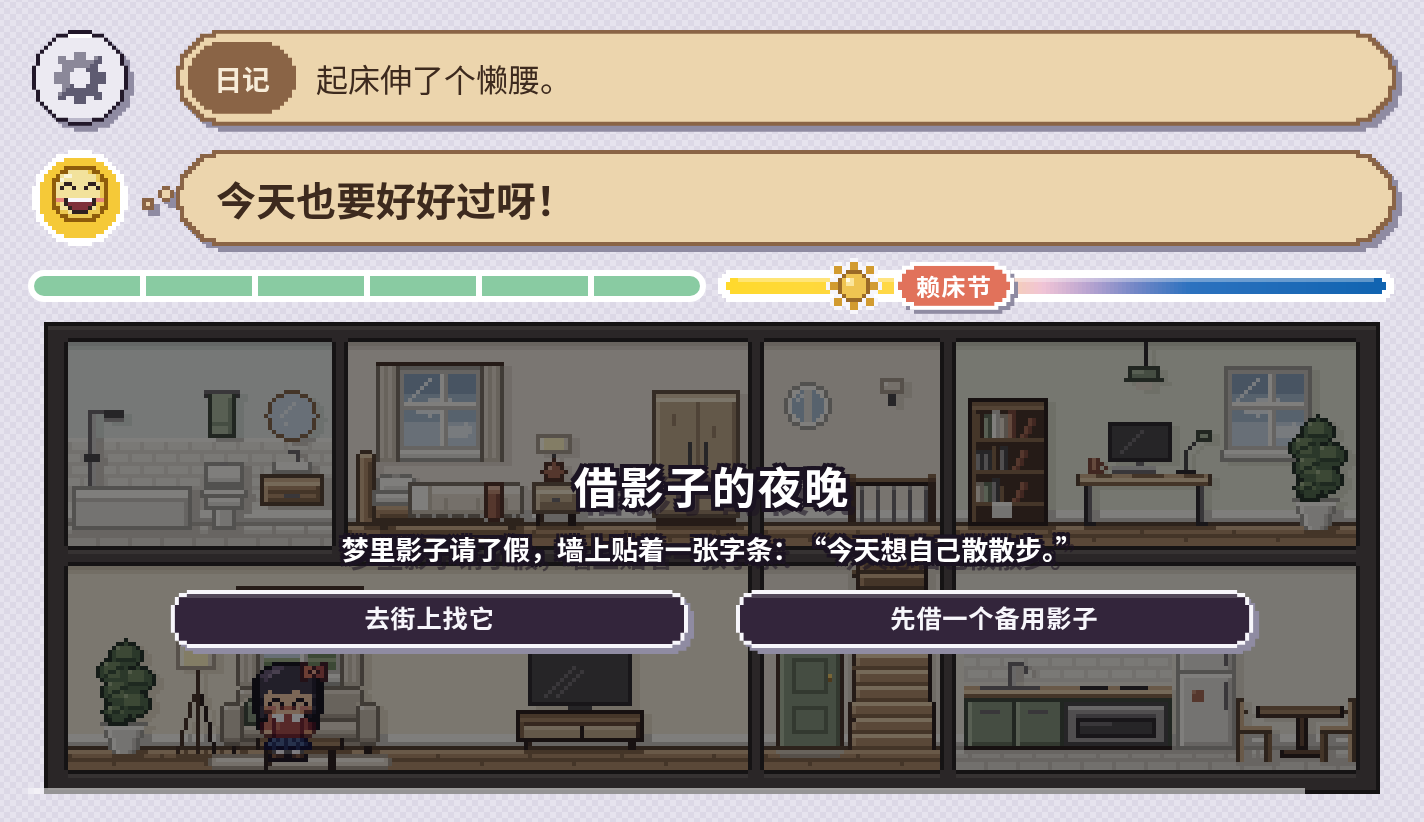
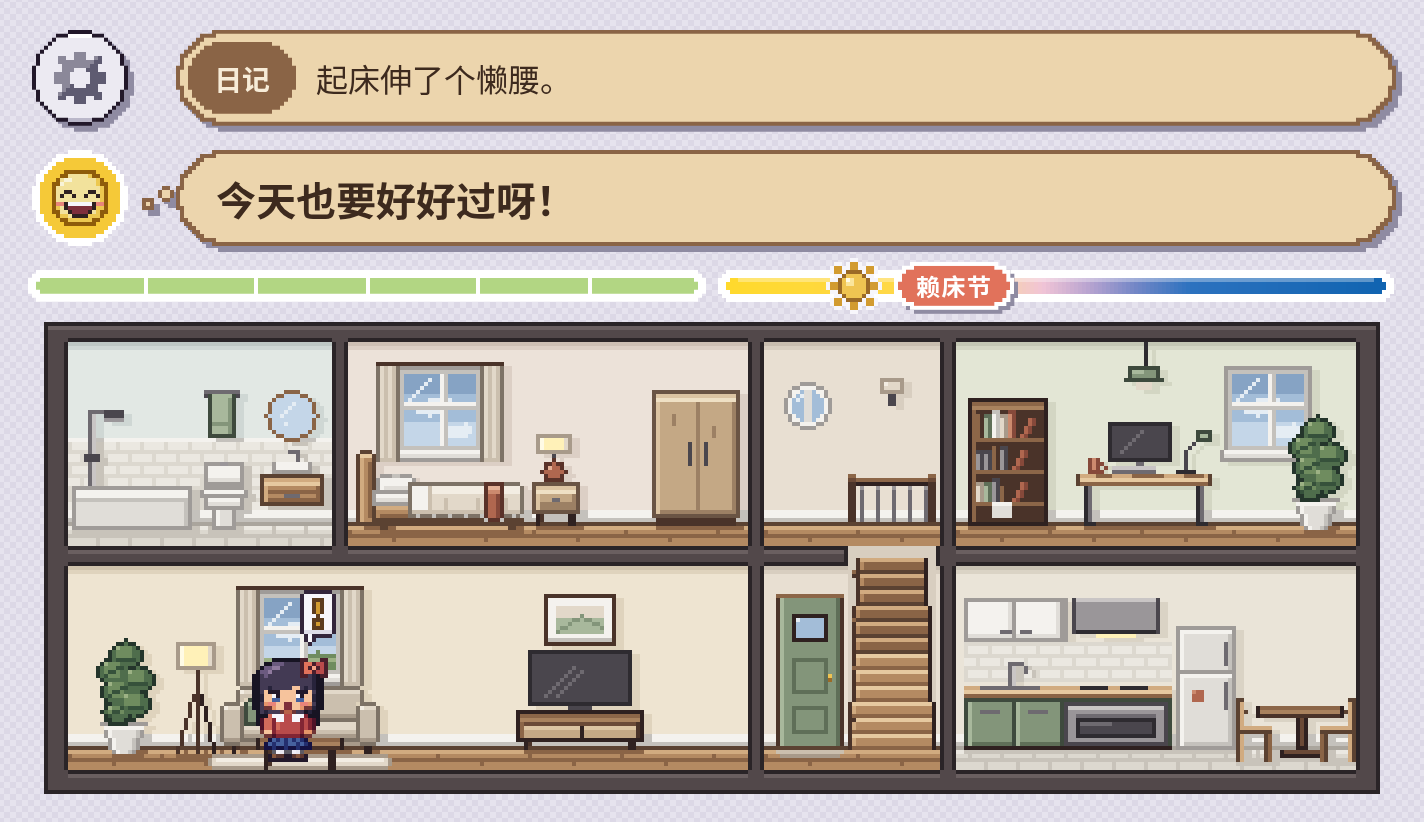
Unify social HUD pixel styling and stagger needs animations

diff --git a/prototype/demo/social_hud.css b/prototype/demo/social_hud.css
@@ -2,65 +2,81 @@
 .widget { display:block; padding-left:0; }
 .desk { padding-left:max(76px,env(safe-area-inset-left,0px)); }
 html.desktop .desk { padding-left:76px; }
-.widget { --hud-spring:cubic-bezier(.2,1.3,.32,1); --hud-settle:cubic-bezier(.2,.8,.25,1); --need-ok:#89cba2; --need-warn:#ffd180; --need-low:#ef767d; }
+.widget { --hud-spring:cubic-bezier(.2,1.3,.32,1); --hud-settle:cubic-bezier(.2,.8,.25,1); }
+/* Outlines and inner bevels match existing diary, settings and radial menus. */
+:is(.needs-panel,.contacts-panel,.contact-card,.network-trigger,.contact-actions button,.incoming-call,.incoming-call button) { isolation:isolate; background:none; border:0; border-radius:0; box-shadow:none; filter:drop-shadow(2px 2px 0 var(--shadow)); }
+:is(.needs-panel,.contacts-panel,.contact-card,.network-trigger,.contact-actions button,.incoming-call,.incoming-call button)::before,
+:is(.needs-panel,.contacts-panel,.contact-card,.network-trigger,.contact-actions button,.incoming-call,.incoming-call button)::after { content:""; position:absolute; pointer-events:none; }
+:is(.needs-panel,.contacts-panel,.contact-card,.network-trigger,.contact-actions button,.incoming-call,.incoming-call button)::before { inset:0; z-index:-2; background:var(--hud-frame,var(--edge)); clip-path:var(--hud-outline,var(--hud-panel-clip)); }
+:is(.needs-panel,.contacts-panel,.contact-card,.network-trigger,.contact-actions button,.incoming-call,.incoming-call button)::after { inset:2px; z-index:-1; background:var(--hud-surface,var(--panel)); clip-path:var(--hud-inner,var(--hud-panel-in)); box-shadow:inset 0 2px 0 var(--bevel-hi),inset 0 -2px 0 var(--bevel-lo); }
 .status-row { display:grid; grid-template-columns:minmax(0,1fr) minmax(0,1fr); gap:6px; align-items:center; position:relative; margin-bottom:var(--sky-gap); }
 .status-row .skybar { width:100%; margin:0; }
 .needs { position:relative; width:100%; height:var(--sky-h); z-index:24; outline:none; cursor:pointer; }
-.needs-summary { position:absolute; top:25%; height:50%; inset-inline:0; display:flex; gap:3px; padding:3px; border-radius:999px; background:#fff; transition:opacity .18s; }
+.needs-summary { position:absolute; top:25%; height:50%; inset-inline:0; background:#fff; clip-path:var(--hud-track-clip); transition:opacity .18s; }
+.needs-segments { position:absolute; inset:var(--hud-track-edge); display:flex; gap:var(--sky-b); clip-path:var(--hud-track-in); }
 .needs-summary i { flex:1; min-width:0; background:var(--need-ok); }
-.needs-summary i:first-child { border-radius:999px 0 0 999px; }
-.needs-summary i:last-child { border-radius:0 999px 999px 0; }
-.needs-panel { position:absolute; bottom:18%; left:0; width:100%; height:150px; display:grid; grid-template-columns:repeat(6,minmax(0,1fr)); gap:8px; padding:16px 12px 10px; border-radius:24px; background:#fff; color:#343442; box-shadow:0 7px 22px #19263720; transform-origin:8% 100%; transform:translateY(9px) scale(.9); opacity:0; visibility:hidden; pointer-events:none; transition:transform .4s var(--hud-spring),opacity .2s,visibility 0s .4s; }
-.needs.open .needs-panel { transform:translateY(0) scale(1); opacity:1; visibility:visible; pointer-events:auto; transition-delay:0s; }
+
+
+.needs-panel { position:absolute; bottom:18%; left:0; width:100%; height:150px; display:grid; grid-template-columns:repeat(6,minmax(0,1fr)); gap:8px; padding:16px 12px 10px; color:var(--ink); transform-origin:8% 100%; transform:translateY(9px) scale(.9); opacity:0; visibility:hidden; pointer-events:none; transition:transform .34s var(--hud-spring) .14s,opacity .18s .28s,visibility 0s .5s; }
+.needs.open .needs-panel { transform:translateY(0) scale(1); opacity:1; visibility:visible; pointer-events:auto; transition-duration:.46s,.2s,0s; transition-delay:0s; }
 .needs.open .needs-summary { opacity:0; }
-.needs:focus-visible { outline:2px dashed var(--focus); outline-offset:3px; border-radius:16px; }
+.needs:focus-visible { outline:2px dashed var(--focus); outline-offset:3px; }
 .need { display:flex; flex-direction:column; align-items:center; justify-content:flex-end; min-width:0; position:relative; height:100%; width:auto; gap:4px; }
-.need-well { position:relative; flex:1; width:min(72%,24px); min-height:0; }
-.need .fill { position:absolute; inset:0; border-radius:9px; background:var(--c); transform:scaleY(var(--v)); transform-origin:50% 100%; transition:transform .5s var(--hud-settle),background-color .25s; }
-.need img,.needs.open .need img { position:static; width:22px; height:22px; padding:3px; border-radius:50%; background:#f0f0f1; image-rendering:pixelated; transform:none; opacity:1; animation:none; }
+.need-well { position:relative; flex:1; width:min(72%,24px); min-height:0; transform:translateY(6px) scaleY(.08); transform-origin:50% 100%; opacity:0; transition:transform .28s var(--hud-settle),opacity .16s; transition-delay:calc((5 - var(--i))*28ms); }
+.needs.open .need-well { transform:none; opacity:1; transition:transform .62s var(--hud-spring),opacity .18s; transition-delay:calc(55ms + var(--i)*55ms); }
+.need .fill { position:absolute; inset:auto 0 0; height:max(8px,calc(var(--v)*100%)); background:var(--c); clip-path:var(--hud-meter-clip); box-shadow:inset 2px 2px 0 #ffffff55,inset -2px -2px 0 #22182a22; transition:background-color .25s; }
+@supports (height:round(down,50%,2px)) { .need .fill { height:max(8px,round(down,calc(var(--v)*100%),2px)); } }
+.need img,.needs.open .need img { position:static; width:22px; height:22px; padding:3px; background:var(--panel-2); clip-path:var(--hud-small-clip); image-rendering:pixelated; animation:none; }
+.need img,.need-label { opacity:0; transform:translateY(5px) scale(.9); transition:transform .24s var(--hud-settle),opacity .14s; transition-delay:calc((5 - var(--i))*22ms); }
+.needs.open .need img,.needs.open .need-label { opacity:1; transform:none; transition:transform .42s var(--hud-spring),opacity .18s; transition-delay:calc(125ms + var(--i)*55ms); }
+.needs.retargeting .need-well,.needs.retargeting .need img,.needs.retargeting .need-label { transition-delay:0s; }
+.needs.retargeting .needs-panel { transition-delay:0s,0s,.5s; }
+.needs.open.retargeting .needs-panel { transition-delay:0s; }
 .need-label { font-size:10px; line-height:1.1; font-weight:500; white-space:nowrap; }
-.network-trigger { position:absolute; left:0; top:2px; width:48px; height:48px; margin:0; padding:10px; color:#4d6068; background:#92c982; border:3px solid #fff; border-radius:50%; box-shadow:0 2px 5px #273d2820; opacity:0; visibility:hidden; transform:translateX(0) scale(.9); transition:transform .46s var(--hud-spring),opacity .18s,visibility 0s .46s; z-index:22; }
-.network-trigger svg { display:block; width:100%; height:100%; fill:currentColor; }
-.network-trigger:hover { background:#a6d698; }
+.network-trigger { --hud-outline:var(--hud-circle-clip); --hud-inner:var(--hud-circle-in); --hud-surface:var(--need-ok); position:absolute; left:0; top:2px; width:48px; height:48px; margin:0; padding:11px; opacity:0; visibility:hidden; transform:translateX(0) scale(.9); transition:transform .46s var(--hud-spring),opacity .18s,visibility 0s .46s; z-index:22; }
+.network-trigger img { display:block; width:26px; height:26px; image-rendering:pixelated; }
+.network-trigger:hover { --hud-surface:var(--accent-soft); }
 .moodrow.network-ready .network-trigger,.moodrow.contacts-open .network-trigger,.network-trigger:focus-visible { transform:translateX(-62px) scale(1); opacity:1; visibility:visible; transition-delay:0s; }
 /* This bridge joins the two circles without stealing the settings/diary hit areas. */
 .moodrow.network-ready::before,.moodrow.contacts-open::before { content:""; position:absolute; left:-66px; top:0; width:70px; height:52px; z-index:21; }
 .mood-face { z-index:22; }
-.contacts-panel { position:absolute; z-index:25; inset:-60px 0 0; border-radius:24px; padding:12px; background:#fff; box-shadow:0 6px 20px #1926371a; opacity:0; visibility:hidden; pointer-events:none; transform:translateX(-10px) scale(.97); transform-origin:0 75%; transition:transform .42s var(--hud-spring),opacity .2s,visibility 0s .42s; }
-.contacts-panel::before { content:""; position:absolute; left:-10px; bottom:24px; width:20px; height:20px; background:#fff; transform:rotate(45deg); border-radius:4px; }
+.contacts-panel { position:absolute; z-index:25; inset:-60px 0 0; padding:12px; opacity:0; visibility:hidden; pointer-events:none; transform:translateX(-10px) scale(.97); transform-origin:0 75%; transition:transform .42s var(--hud-spring),opacity .2s,visibility 0s .42s; }
+.contacts-tail { position:absolute; z-index:0; left:-12px; bottom:24px; width:14px; height:20px; background:var(--edge); clip-path:polygon(100% 0,10px 0,10px 2px,8px 2px,8px 4px,6px 4px,6px 6px,4px 6px,4px 8px,2px 8px,2px 12px,4px 12px,4px 14px,6px 14px,6px 16px,8px 16px,8px 18px,10px 18px,10px 20px,100% 20px); }
+.contacts-tail::after { content:""; position:absolute; inset:2px -2px 2px 2px; background:var(--panel); clip-path:inherit; }
 .moodrow.contacts-open { z-index:50; }
 .moodrow.contacts-open .contacts-panel { opacity:1; visibility:visible; pointer-events:auto; transform:none; transition-delay:0s; }
 .moodrow.contacts-open>.settings,.moodrow.contacts-open>.diary,.moodrow.contacts-open>.mood-face,.moodrow.contacts-open>.mood-talk { visibility:hidden; pointer-events:none; }
-.contacts-list { position:relative; display:grid; grid-auto-flow:column; grid-auto-columns:calc((100% - 16px)/3); gap:8px; height:100%; overflow-x:auto; overscroll-behavior:contain; scrollbar-width:thin; scrollbar-color:#97c5b3 transparent; border-radius:16px; }
-.contact-card { display:grid; grid-template-columns:34px minmax(0,1fr); grid-template-rows:minmax(0,1fr) 8px; align-items:center; gap:5px 8px; height:100%; min-width:0; margin:0; padding:10px; background:#dceee7; color:#253c36; border:0; border-radius:17px; box-shadow:none; text-align:left; transition:background-color .15s,transform .25s var(--hud-settle); }
-.contact-card:hover,.contact-card[aria-expanded="true"] { background:#cce7da; }
+.contacts-list { position:relative; display:grid; grid-auto-flow:column; grid-auto-columns:calc((100% - 16px)/3); gap:8px; height:100%; overflow-x:auto; overscroll-behavior:contain; scrollbar-width:thin; scrollbar-color:var(--bevel-lo) transparent; }
+.contact-card { position:relative; --hud-outline:var(--hud-card-clip); --hud-inner:var(--hud-card-in); --hud-frame:var(--bevel-lo); --hud-surface:var(--panel-2); display:grid; grid-template-columns:34px minmax(0,1fr); grid-template-rows:minmax(0,1fr) 10px; align-items:center; gap:5px 8px; height:100%; min-width:0; margin:0; padding:10px; color:var(--ink); text-align:left; transition:transform .25s var(--hud-settle); }
+.contact-card:hover,.contact-card[aria-expanded="true"] { --hud-frame:var(--accent); --hud-surface:var(--accent-soft); }
 .contact-card:active { transform:scale(.98); }
-.contact-card canvas { width:34px; height:34px; border-radius:50%; image-rendering:pixelated; background:#f5f7f7; }
+.contact-card canvas { width:34px; height:34px; clip-path:var(--hud-avatar-clip); image-rendering:pixelated; background:var(--panel); }
 .contact-copy { min-width:0; display:flex; flex-direction:column; gap:2px; }
 .contact-copy strong { font-size:clamp(12px,1.6vw,17px); overflow:hidden; white-space:nowrap; text-overflow:ellipsis; }
-.contact-copy small { font-size:11px; color:#71877f; overflow:hidden; white-space:nowrap; text-overflow:ellipsis; }
-.affinity { grid-column:1/-1; height:8px; padding:1px; border-radius:999px; background:#fff; overflow:hidden; }
-.affinity i { display:block; height:100%; width:calc(var(--affinity)*1%); background:#20af79; border-radius:999px; }
+.contact-copy small { font-size:11px; color:var(--muted); overflow:hidden; white-space:nowrap; text-overflow:ellipsis; }
+.affinity { grid-column:1/-1; height:10px; padding:2px; background:var(--ring); clip-path:var(--hud-meter-clip); overflow:hidden; }
+.affinity i { display:block; height:100%; width:calc(var(--affinity)*1%); background:var(--need-ok); clip-path:var(--hud-meter-in); box-shadow:inset 0 2px 0 #ffffff55; }
 .contact-actions { position:fixed; z-index:60; width:0; height:0; opacity:0; visibility:hidden; transition:opacity .15s,visibility 0s .25s; }
 .contact-actions.on { visibility:visible; opacity:1; transition-delay:0s; }
-.contact-actions button { position:absolute; margin:0; white-space:nowrap; transform:translate(-50%,-50%) scale(.9); opacity:0; border:2px solid #39443f; border-radius:999px; padding:6px 16px; box-shadow:0 2px 2px #19263715; background:#fff; color:#29382e; font-size:14px; font-weight:700; transition:transform .38s var(--hud-spring),opacity .18s; }
+.contact-actions button { --hud-outline:var(--clip-btn); --hud-inner:var(--clip-btn-in); position:absolute; margin:0; white-space:nowrap; transform:translate(-50%,-50%) scale(.9); opacity:0; padding:6px 16px; color:var(--ink); font-size:14px; font-weight:700; transition:transform .38s var(--hud-spring),opacity .18s; }
 .contact-actions.on button { transform:translate(calc(-50% + var(--x)),calc(-50% + var(--y))) scale(1); opacity:1; }
-.contact-actions button:hover { background:#e5f2e9; }
-.contact-actions button[aria-disabled="true"] { color:#929b96; border-color:#abb4ad; cursor:help; }
-.contact-actions button.coming-soon::after { content:"下一步开放"; display:block; font-size:9px; font-weight:400; line-height:1.1; }
-.incoming-call { position:absolute; inset:0 0 0 var(--tail,18px); z-index:30; display:flex; align-items:center; gap:8px; padding:4px 6px; color:#fff; background:#35373f; border:2px solid #70717b; border-radius:24px; transform-origin:8% 50%; animation:call-arrive .5s var(--hud-spring) both; overflow:hidden; }
+.contact-actions button:hover { --hud-surface:var(--panel-2); }
+.contact-actions button[aria-disabled="true"] { --hud-frame:var(--bevel-lo); color:var(--muted); cursor:help; }
+.contact-unavailable { display:block; font-size:9px; font-weight:400; line-height:1.1; }
+.incoming-call { --hud-surface:#332c42; --hud-frame:#757187; position:absolute; inset:0 0 0 var(--tail,18px); z-index:30; display:flex; align-items:center; gap:8px; padding:4px 6px; color:#f7f6fb; transform-origin:8% 50%; animation:call-arrive .5s var(--hud-spring) both; }
 .incoming-call[hidden] { display:none; }
 .caller-avatar { position:relative; flex:none; width:36px; height:36px; }
-.caller-avatar canvas { position:relative; display:block; width:36px; height:36px; border-radius:50%; image-rendering:pixelated; background:#edf2f3; animation:caller-wiggle 1.1s var(--hud-settle) infinite; }
-.caller-avatar i { position:absolute; inset:1px; border:1px solid #c1dacf; border-radius:50%; animation:caller-wave 1.6s cubic-bezier(.2,.65,.3,1) infinite; }
+.caller-avatar canvas { position:relative; display:block; width:36px; height:36px; clip-path:var(--hud-caller-clip); image-rendering:pixelated; background:#edf2f3; animation:caller-wiggle 1.1s var(--hud-settle) infinite; }
+.caller-avatar i { position:absolute; inset:1px; background:#cfdcf2; clip-path:var(--hud-caller-clip); animation:caller-wave 1.6s cubic-bezier(.2,.65,.3,1) infinite; }
+.caller-avatar i::after { content:""; position:absolute; inset:2px; background:#332c42; clip-path:var(--hud-caller-in); }
 .caller-avatar i:nth-child(2) { animation-delay:.8s; }
 .caller-copy { flex:1; min-width:0; display:flex; justify-content:center; line-height:1.25; }
 .caller-copy strong,.caller-copy span { display:block; overflow:hidden; text-overflow:ellipsis; }
 .caller-copy { flex-direction:column; }
 .caller-copy strong { white-space:nowrap; font-size:14px; }
 .caller-copy span { font-size:12px; }
-.incoming-call button { flex:none; margin:0; padding:7px 12px; border-radius:999px; box-shadow:none; font-weight:700; font-size:12px; color:#20382b; background:#91cc93; }
-.incoming-call .call-decline { color:#4e2425; background:#f1a29d; }
+.incoming-call button { position:relative; --hud-outline:var(--clip-btn); --hud-inner:var(--clip-btn-in); --hud-surface:var(--need-ok); flex:none; margin:0; padding:7px 12px; font-weight:700; font-size:12px; color:#22182a; }
+.incoming-call .call-decline { --hud-surface:var(--need-low); }
 .incoming-call button:active { transform:scale(.95); }
 .call-countdown { position:absolute; bottom:0; inset-inline:12px; height:2px; background:#c8e1d3; transform-origin:left; animation:call-time 6s linear both; }
 .mood-talk.phone-active .pop,.mood-talk.phone-active .mood-list { visibility:hidden; }
@@ -74,4 +90,4 @@ html.desktop .desk { padding-left:76px; }
 @keyframes call-accept { 30% { transform:scale(1.015); opacity:1; } to { transform:translateX(-12px) scale(.94); opacity:0; } }
 @keyframes call-decline { to { transform:translateY(10px) scale(.96); opacity:0; } }
 @media (max-width:600px) { .desk { padding-left:64px; padding-right:14px; } .network-trigger { width:42px; height:42px; top:5px; padding:8px; } .moodrow.network-ready .network-trigger,.moodrow.contacts-open .network-trigger { transform:translateX(-50px); } .contact-card { grid-template-columns:26px minmax(0,1fr); gap:4px; padding:7px; } .contact-card canvas { width:26px; height:26px; } .contact-copy strong { font-size:11px; } .contact-copy small { font-size:10px; } .contacts-panel { padding:8px; } .contacts-list { grid-auto-columns:calc((100% - 8px)/2.35); gap:6px; } .needs-panel { gap:4px; padding-inline:6px; } .need-label { font-size:9px; } .incoming-call { gap:4px; padding-inline:4px; } .caller-avatar,.caller-avatar canvas { width:28px; height:28px; } .caller-copy strong { font-size:11px; } .caller-copy span { font-size:10px; } .incoming-call button { padding:7px 6px; font-size:10px; } .contact-actions button { font-size:12px; padding:6px 12px; } }
-@media (prefers-reduced-motion:reduce) { .needs-panel,.needs-summary,.network-trigger,.contacts-panel,.contact-card,.contact-actions,.contact-actions button,.need .fill { transition:none; } .incoming-call,.caller-avatar canvas,.caller-avatar i { animation:none; } .incoming-call.accepting,.incoming-call.declining { animation:none; opacity:0; } .caller-avatar i { display:none; } }
+@media (prefers-reduced-motion:reduce) { .needs-panel,.needs-summary,.need-well,.need img,.need-label,.network-trigger,.contacts-panel,.contact-card,.contact-actions,.contact-actions button,.need .fill { transition:none !important; } .incoming-call,.caller-avatar canvas,.caller-avatar i { animation:none; } .incoming-call.accepting,.incoming-call.declining { animation:none; opacity:0; } .caller-avatar i { display:none; } }

diff --git a/prototype/demo/index.src.html b/prototype/demo/index.src.html
@@ -824,8 +824,8 @@ button:focus-visible, summary:focus-visible { outline: var(--u) dashed var(--foc
           <div class="diary-pop" id="diaryPop" hidden><ol id="diaryList" aria-label="最近发生的事"></ol></div>
           <button type="button" class="diary-box" id="diaryBox" aria-expanded="false" aria-controls="diaryPop" title="看看最近发生的事"><b>日记</b><span></span></button>
         </div>
-        <button type="button" class="network-trigger" id="networkTrigger" aria-label="人脉" aria-expanded="false" aria-controls="contactsPanel" title="人脉"><svg viewBox="0 0 24 24" aria-hidden="true"><circle cx="9" cy="8" r="4"/><path d="M2 20v-3a7 7 0 0 1 14 0v3Z"/><path d="M17 4a4 4 0 0 1 0 8M18 14a6 6 0 0 1 4 6" fill="none" stroke="currentColor" stroke-width="2" stroke-linecap="round"/></svg></button>
-        <section class="contacts-panel" id="contactsPanel" aria-label="人脉，父母在前，其余按亲密度排列" aria-hidden="true" inert><div class="contacts-list" id="contactsList"></div></section>
+        <button type="button" class="network-trigger" id="networkTrigger" aria-label="人脉" aria-expanded="false" aria-controls="contactsPanel" title="人脉"><img alt="" width="26" height="26"></button>
+        <section class="contacts-panel" id="contactsPanel" aria-label="人脉，父母在前，其余按亲密度排列" aria-hidden="true" inert><i class="contacts-tail" aria-hidden="true"></i><div class="contacts-list" id="contactsList"></div></section>
         <div class="contact-actions" id="contactActions" role="menu" aria-label="联系这位亲友" aria-hidden="true" inert></div>
         <div class="mood-face" id="moodFace" tabindex="0" role="button" aria-label="情绪" aria-expanded="false" aria-controls="moodTip">
           <canvas id="mood" width="78" height="78"></canvas>
@@ -843,7 +843,7 @@ button:focus-visible, summary:focus-visible { outline: var(--u) dashed var(--foc
       </div>
       <div class="status-row">
       <div class="needs" id="needs" tabindex="0" role="button" aria-expanded="false" aria-controls="needsPanel" aria-label="查看六项需求">
-        <div class="needs-summary" aria-hidden="true"><i data-summary="hunger"></i><i data-summary="energy"></i><i data-summary="hygiene"></i><i data-summary="bladder"></i><i data-summary="social"></i><i data-summary="fun"></i></div>
+        <div class="needs-summary" aria-hidden="true"><span class="needs-segments"><i data-summary="hunger"></i><i data-summary="energy"></i><i data-summary="hygiene"></i><i data-summary="bladder"></i><i data-summary="social"></i><i data-summary="fun"></i></span></div>
         <div class="needs-panel" id="needsPanel" aria-hidden="true" inert>
       <div class="need" style="--i:0" data-k="hunger" role="meter" aria-label="饱腹" aria-valuemin="0" aria-valuemax="100"><span class="need-well"><span class="fill"></span></span><img alt="" data-icon="hunger"><span class="need-label">饱腹</span></div>
       <div class="need" style="--i:1" data-k="energy" role="meter" aria-label="精力" aria-valuemin="0" aria-valuemax="100"><span class="need-well"><span class="fill"></span></span><img alt="" data-icon="energy"><span class="need-label">精力</span></div>
@@ -1772,6 +1772,7 @@ function fit() {
   di.style.setProperty("--diary-fs", (sayFs - 4) + "px");
   document.documentElement.style.setProperty("--row-h", 52 + "px");   // the gear + diary row: as tall as the emoji's canvas
   di.style.setProperty("--diary-max", Math.round(Math.max(150, Math.min(320, hPx * 1.1))) + "px");
+  sizeSocialHud();
   if (typeof fitSay === "function") { fitSay(); fitDiary(); }   // a new size: refit both lines
   if (typeof guideOn !== "undefined" && guideOn) sizeGuide();
   if (TAURI || wardrobeOpen || diaryOn || (typeof guideOn !== "undefined" && guideOn)) { studio.refit(); makeRoom(); }
@@ -3078,16 +3079,23 @@ function syncUI() {
   }
 }
 
-// The compact track and its popover share a hover region; CSS transitions can reverse mid-flight.
+// Only the compact track holds the mouse hover; the popover never enlarges that area.
 const reduceMotionUI = window.matchMedia("(prefers-reduced-motion: reduce)").matches;
-let closeT = null;
+let needsChangedAt=-Infinity;
 function setNeedsOpen(open) {
-  clearTimeout(closeT);
+  if(needsEl.classList.contains("open")===open)return;
+  const now=performance.now();needsEl.classList.toggle('retargeting',now-needsChangedAt<650);needsChangedAt=now;
   needsEl.classList.toggle("open",open);needsEl.setAttribute("aria-expanded",String(open));
   const panel=document.getElementById("needsPanel");panel.inert=!open;panel.setAttribute("aria-hidden",String(!open));
 }
-needsEl.addEventListener("pointerenter",e=>{if(e.pointerType==='mouse')setNeedsOpen(true);});
-needsEl.addEventListener("pointerleave",e=>{if(e.pointerType==='mouse')closeT=setTimeout(()=>setNeedsOpen(false),220);});
+function trackNeedsPointer(e){
+  if(e.pointerType!=='mouse')return;
+  const r=needsEl.getBoundingClientRect();
+  setNeedsOpen(e.clientX>=r.left&&e.clientX<r.right&&e.clientY>=r.top&&e.clientY<r.bottom);
+}
+needsEl.addEventListener("pointerenter",trackNeedsPointer);
+needsEl.addEventListener("pointermove",trackNeedsPointer);
+needsEl.addEventListener("pointerleave",e=>{if(e.pointerType==='mouse')setNeedsOpen(false);});
 needsEl.addEventListener("click",e=>{if(e.pointerType!=='mouse')setNeedsOpen(!needsEl.classList.contains('open'));});
 needsEl.addEventListener("focus",()=>{if(needsEl.matches(':focus-visible'))setNeedsOpen(true);});
 needsEl.addEventListener("blur",()=>setNeedsOpen(false));

diff --git a/tools/check_social_hud.js b/tools/check_social_hud.js
@@ -22,14 +22,27 @@ const {chromium}=require('playwright');
  await page.locator('#needs').hover();await page.waitForTimeout(90);
  const mid=await page.locator('#needsPanel').evaluate(el=>({opacity:+getComputedStyle(el).opacity,transform:getComputedStyle(el).transform}));
  assert.ok(mid.opacity>0&&mid.opacity<=1);assert.notEqual(mid.transform,'none','Popover is animating');
- await page.waitForTimeout(430);assert.equal(await page.locator('#needs').getAttribute('aria-expanded'),'true');
- await page.locator('#needsPanel').hover();await page.waitForTimeout(300);assert.equal(await page.locator('#needs').getAttribute('aria-expanded'),'true','Hover bridge retains the panel');
+ const early=await page.locator('.need-well').evaluateAll(es=>es.map(e=>+getComputedStyle(e).opacity));
+ assert.ok(early[0]>early[5]&&early[5]<.1,'Individual meters unfold one after another');
+ await page.waitForTimeout(1000);assert.equal(await page.locator('#needs').getAttribute('aria-expanded'),'true');
  assert.equal(await page.locator('#needsPanel .need').count(),6);
  assert.deepEqual(await page.locator('#view').boundingBox(),house,'Expanding needs does not move the game');
  await page.screenshot({path:'/workspace/artifacts/social-hud/needs.png'});
+ const panel=await page.locator('#needsPanel').boundingBox();await page.mouse.move(panel.x+panel.width/2,panel.y+30);await page.waitForTimeout(30);
+ assert.equal(await page.locator('#needs').getAttribute('aria-expanded'),'false','Leaving the compact track closes even over the expanded panel');
+ await page.waitForTimeout(70);const closing=await page.locator('.need-well').evaluateAll(es=>es.map(e=>+getComputedStyle(e).opacity));
+ assert.ok(closing[5]<closing[0],'Meters fold in reverse order');
+ await page.mouse.move(need.x+need.width/2,need.y+need.height/2);await page.waitForTimeout(60);
+ assert.equal(await page.locator('#needs').getAttribute('aria-expanded'),'true','Interrupted closing reverses on the original compact track');
  await page.mouse.move(20,20);await page.waitForTimeout(700);assert.equal(await page.locator('#needs').getAttribute('aria-expanded'),'false');
  await page.locator('#moodFace').hover();await page.waitForTimeout(500);await page.locator('#networkTrigger').hover();await page.waitForTimeout(500);
  assert.equal(await page.locator('#contactsPanel').getAttribute('aria-hidden'),'false');
+ for(const [selector,pseudo]of [['.needs-summary',null],['.needs-panel','::before'],['.contacts-panel','::before'],['.contact-card','::before'],['.affinity',null]]){
+  const shape=await page.locator(selector).first().evaluate((el,pseudo)=>{const s=getComputedStyle(el,pseudo);return {clip:s.clipPath,radius:s.borderRadius};},pseudo);
+  assert.ok(shape.clip.startsWith('polygon('),selector+' uses stepped pixel geometry');assert.equal(shape.radius,'0px');
+ }
+ assert.equal(await page.locator('#networkTrigger img').evaluate(img=>img.naturalWidth),13,'Use the palette-only pixel people icon');
+ for(const selector of ['#networkTrigger','.contact-card'])assert.equal(await page.locator(selector).first().evaluate(el=>getComputedStyle(el).boxShadow),'none','Pixel frames must not inherit rectangular button shadows');
  assert.deepEqual(await page.locator('.contact-card').evaluateAll(els=>els.map(e=>e.dataset.id)),['dad','mom','abu']);
  assert.deepEqual(await page.locator('.contact-copy strong').allTextContents(),['爸爸','妈妈','阿布']);
  assert.equal(await page.locator('.settings').evaluate(el=>getComputedStyle(el).visibility),'hidden');
@@ -98,6 +111,6 @@ const {chromium}=require('playwright');
  await page.evaluate(()=>{closeGuide();speed=0;setNeedsOpen(true);setContactsOpen(false);});
  assert.equal(await page.locator('#needsPanel').evaluate(el=>getComputedStyle(el).transitionDuration),'0s');
  assert.deepEqual(errors,[]);
- console.log('PASS: compact layout, reversible hover panels, stable parents-first contacts, action ring, targeted messages, capped affection, saved contacts, delayed incoming call, pause, distinct answer/decline, six-second timeout, legacy saves, mobile bounds and reduced motion.');
+ console.log('PASS: pixel frames and glyph, staggered expand/reverse collapse, track-only hover, interrupted reversal, compact layout, stable parents-first contacts, action ring, targeted messages, capped affection, saved contacts, delayed incoming call, pause, distinct answer/decline, six-second timeout, legacy saves, mobile bounds and reduced motion.');
  }finally{await browser.close();}
 })().catch(e=>{console.error(e);process.exitCode=1;});

diff --git a/prototype/demo/social_hud.js b/prototype/demo/social_hud.js
@@ -8,6 +8,17 @@ const socialState={contacts:DEFAULT_CONTACTS.map(c=>({...c,look:doll.normalize(c
 const networkTrigger=document.getElementById('networkTrigger'),contactsPanel=document.getElementById('contactsPanel');
 const contactsList=document.getElementById('contactsList'),contactActions=document.getElementById('contactActions');
 const incomingCall=document.getElementById('incomingCall');
+networkTrigger.querySelector('img').src=D.uiIcons.people;
+// Share the same stepped circles and two-pixel frames as diary/settings UI.
+function sizeSocialHud(){
+  const style=document.getElementById('widget').style,b=skyGeo.b,small=innerWidth<=600;
+  for(const [name,n,p]of [['panel',12,2],['card',8,2],['button',9,2],['circle',small?10:12,2],['avatar',small?6:8,2],['small',5,2],['meter',2,2],['track',4,b],['caller',small?7:9,2]]){
+    style.setProperty(`--hud-${name}-clip`,roundClip(n,p));
+    style.setProperty(`--hud-${name}-in`,roundClip(Math.max(1,n-1),p));
+  }
+  style.setProperty('--hud-track-in',roundClip(2,b));
+  style.setProperty('--hud-track-edge',2*b+'px');
+}
 let networkCloseT=0,contactsCloseT=0,selectedContact=null,contactsSig='',remoteSocial=null;
 const phoneCall={phase:'idle',contactId:null,kind:'call',deadline:0,timeout:0,exitTimer:0,returnFocus:null};
 function phoneHolds(){return ['ringing','accepting','declining'].includes(phoneCall.phase);}
@@ -65,7 +76,7 @@ function openContactActions(id){
   for(const [i,[action,label]]of actions.entries()){
     const b=document.createElement('button');b.type='button';b.textContent=label;b.dataset.action=action;b.setAttribute('role','menuitem');
     const a=-Math.PI/2+i*Math.PI/3;b.style.setProperty('--x',`${Math.cos(a)*112}px`);b.style.setProperty('--y',`${Math.sin(a)*72}px`);
-    if(['outing','visit','invite'].includes(action)){b.setAttribute('aria-disabled','true');b.classList.add('coming-soon');b.title='串门与同行将在下一步开放';}
+    if(['outing','visit','invite'].includes(action)){b.setAttribute('aria-disabled','true');b.classList.add('coming-soon');b.append(Object.assign(document.createElement('small'),{className:'contact-unavailable',textContent:'下一步开放'}));b.title='串门与同行将在下一步开放';}
     else if(['text','video'].includes(action)&&(asleep()||sim.mode==='down'||wiping||cardHolds()||socialBusy())){
       b.setAttribute('aria-disabled','true');b.title=asleep()?'等主角醒来再联系':sim.mode==='down'?'先唤醒晕倒的主角':'正在忙，稍后再联系';b.setAttribute('aria-label',`${label}：${b.title}`);
     }

diff --git a/prototype/demo/guide_text.js b/prototype/demo/guide_text.js
@@ -48,7 +48,7 @@ const GUIDE = [
       "[5] 社交：聊天、打电话",
       "[6] 开心：玩",
     ],
-    tip: "饱腹或精力见底{她}会晕倒，长按{她} 5 秒叫醒。" },
+    tip: "鼠标离开左半需求条就会收回。饱腹或精力见底{她}会晕倒，长按{她} 5 秒叫醒。" },
 
   { title: "心情", shot: "mood",
     lead: "表情是{她}现在的心情。",

diff --git a/art/src/concept/ui_icons.py b/art/src/concept/ui_icons.py
@@ -1,4 +1,4 @@
-"""Small icons for the game's own UI (not the house): the settings gear.
+"""Small icons for the game's own UI: settings gear and the contacts glyph.
 13x13, metal ramp, lit from the top-left (upper-left half one shade
 lighter), eight teeth and a round hole in the middle. Shown at 2
 screen pixels per icon pixel inside a round pixel button."""
@@ -85,7 +85,26 @@ def glyph(name: str, color=P.ink[1]) -> Sprite:
 
 
 def icon(name: str) -> Sprite:
-    return {"gear": gear}[name]()
+    return {"gear": gear, "people": people}[name]()
+
+
+def people() -> Sprite:
+    """Two residents, 13x13 like the settings gear; lit upper-left."""
+    return Sprite.from_grid("\n".join([
+        ".............",
+        "........HHH..",
+        "..HHH..HMMM..",
+        ".HMMM..MMMM..",
+        ".MMMM...MM...",
+        ".MMMM........",
+        "..MM....HHH..",
+        ".......HMMMM.",
+        ".HHHHH.MMMMM.",
+        "HMMMMMM.MMMM.",
+        "MMMMMMMM.MMM.",
+        "MMMMMMMM.....",
+        ".............",
+    ]), {"H": P.metal[3], "M": P.metal[1]})
 
 
 def build():
@@ -95,4 +114,4 @@ def build():
     for g in GLYPHS:
         out.blit(glyph(g), x, 2)
         x += len(GLYPHS[g][0]) + 3
-    return {"ui_icons": out}
+    return {"ui_icons": out, "ui_people": people()}

diff --git a/tools/make_demo.py b/tools/make_demo.py
@@ -360,7 +360,7 @@ def main():
         "doll": mc.doll_data(),   # Buddy's role maps + dressing-room options (shared with the creator)
         "bg": {"day": png(day), "night": png(night)},
         "needIcons": {k: png(need_icons.icon(k)) for k in need_icons.GRIDS},
-        "uiIcons": {"gear": png(ui_icons.icon("gear"))},
+        "uiIcons": {name: png(ui_icons.icon(name)) for name in ("gear", "people")},
         "uiGlyphs": ui_icons.GLYPHS,
         # pick-a-thing panels: covers matched to titles by hash, dishes by look
         "items": {**{k: [png(c) for c in item_icons.covers(k)] for k in ("book", "tv", "game", "app")},

diff --git a/.claude/skills/pixel-art/SKILL.md b/.claude/skills/pixel-art/SKILL.md
@@ -805,12 +805,19 @@ wishes and event chains are not in yet (traits: user still deciding).
 
 需求合并为屋顶左半的六段横条，时间条缩到右半，上面的设置、日记、情绪和对话
 位置与外观保留。悬停需求条向上展开白色圆角面板，六根竖条及图标/标签；展开、
-收回均平滑带轻弹性，可中途反向，不推动小屋位置，鼠标移入面板不得突然关闭。
+收回均平滑带轻弹性，可中途反向，不推动小屋位置。用户后续修正：只有左半
+合并需求条的原始矩形区域保持悬停，鼠标离开立即启动收回，即使移向上方大面板
+也收回。展开时六条按 55ms 间隔依次伸展，图标和文字稍后跟随；收回反向依次
+归拢，快速移入/移出时从当前形态连续反向，不重新跳播。
 悬停情绪表情，从其后向左滑出绿色人脉圆钮；悬停该钮打开覆盖两行旧 HUD 的
 人脉面板，圆角 24px 与原 48px 胶囊同半径。父母固定前两位，只写爸爸/妈妈；
 其余按好感降序；卡片显示像素头像、姓名、关系和好感。点击卡片展开六项环形
 气泡：发消息、打视频、出门玩、拜访、来我家、算了。用户已确认本轮仅做 UI、
 联系人和电话消息，三个实地活动明确标注“下一步开放”，不可假装已经实现。
+需求概览、展开面板、竖条、人脉面板、卡片、好感条、按钮与来电均用现有
+`roundClip` 的阶梯式像素圆角、2px 描边/高光和硬像素投影，不用浏览器平滑
+border-radius 或模糊阴影。颜色沿用原 UI 的主题变量。人脉图标由 pixelkit
+`ui_icons.people()` 绘制，与设置齿轮相同的 13px 格点，不能换回平滑 SVG 人形。
 联系人固定身份（初始爸爸、妈妈、阿布），消息/视频/电话与日记使用同一身份。
 聊天完成才增好感，同一人每日最多增 6 点；拒接不扣好感，名单与好感随存档保存。
 来电覆盖对话胶囊，朋友格式“好友阿布 / 打来电话，要接吗？”，父母只写称谓。
